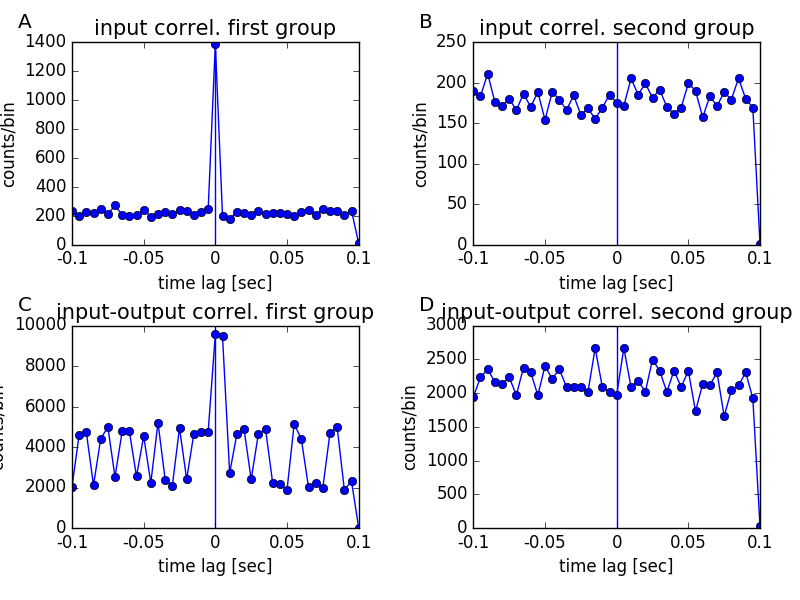
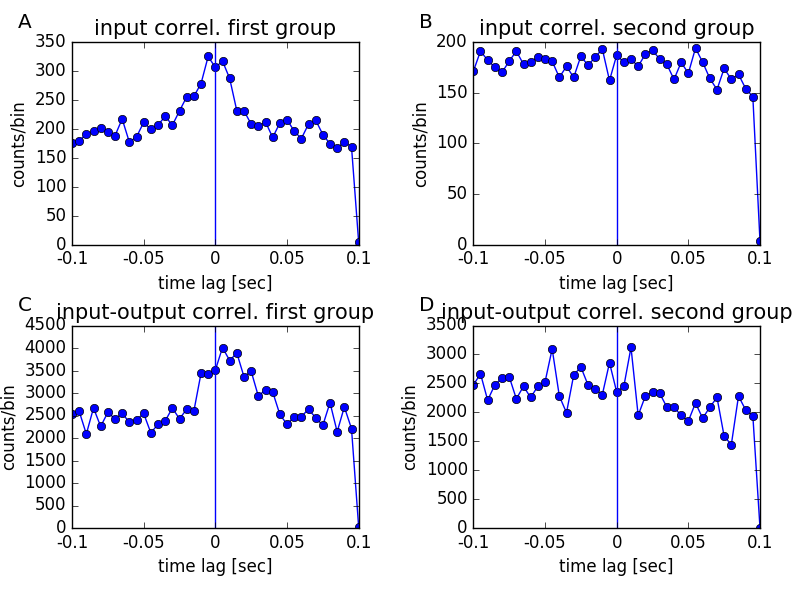
two new simulations

diff --git a/Assignment3/ex3_stdp.py b/Assignment3/ex3_stdp.py
@@ -223,7 +223,7 @@ def plot_raster(spikes,tmax):
 def main():
 
     # question 2
-    # perform_simulation(False, jitter=.002, alpha=1.1, Wmax_fact=2, Tsim=200000.0, W=2e3) # jitter is in seconds
+    perform_simulation(False, jitter=.01, alpha=1.1, Wmax_fact=2, Tsim=200000.0, W=2e3) # jitter is in seconds
 
     # question 3
 
@@ -236,10 +236,10 @@ def main():
 #     perform_simulation(True, jitter=0.0, alpha=1.1, Wmax_fact=1.5, Tsim=200000.0, W=2e3)
 
 #     question 5
-#     perform_simulation(False, jitter=.002, alpha=1., Wmax_fact=2, Tsim=400000.0, W=2e3)
-#     perform_simulation(False, jitter=.00, alpha=1.1, Wmax_fact=4, Tsim=200000.0, W=2e3)
+    # perform_simulation(False, jitter=.002, alpha=1., Wmax_fact=2, Tsim=400000.0, W=2e3)
+    # perform_simulation(False, jitter=.00, alpha=1.1, Wmax_fact=4, Tsim=200000.0, W=2e3)
     #perform_simulation(False, jitter=0.0, alpha=1.1, Wmax_fact=1.5, Tsim=200000.0, W=2e3)
-  perform_simulation(False, jitter=.00, alpha=4., Wmax_fact=2, Tsim=200000.0, W=2e3) # jitter is in seconds
+  #perform_simulation(False, jitter=.00, alpha=4., Wmax_fact=2, Tsim=200000.0, W=2e3) # jitter is in seconds
 
 
 main()
